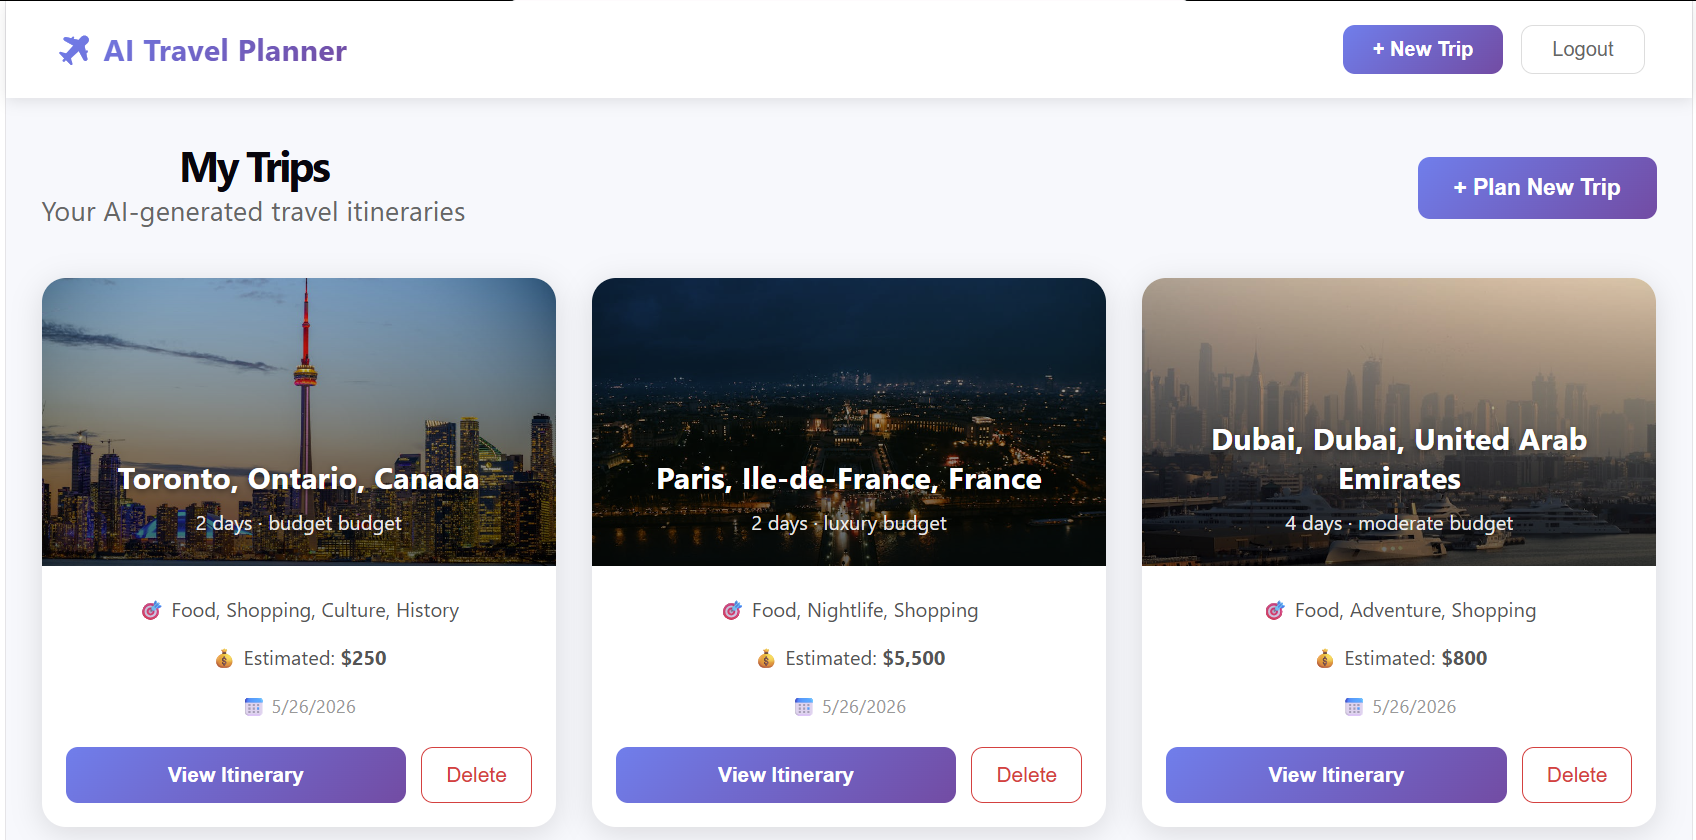
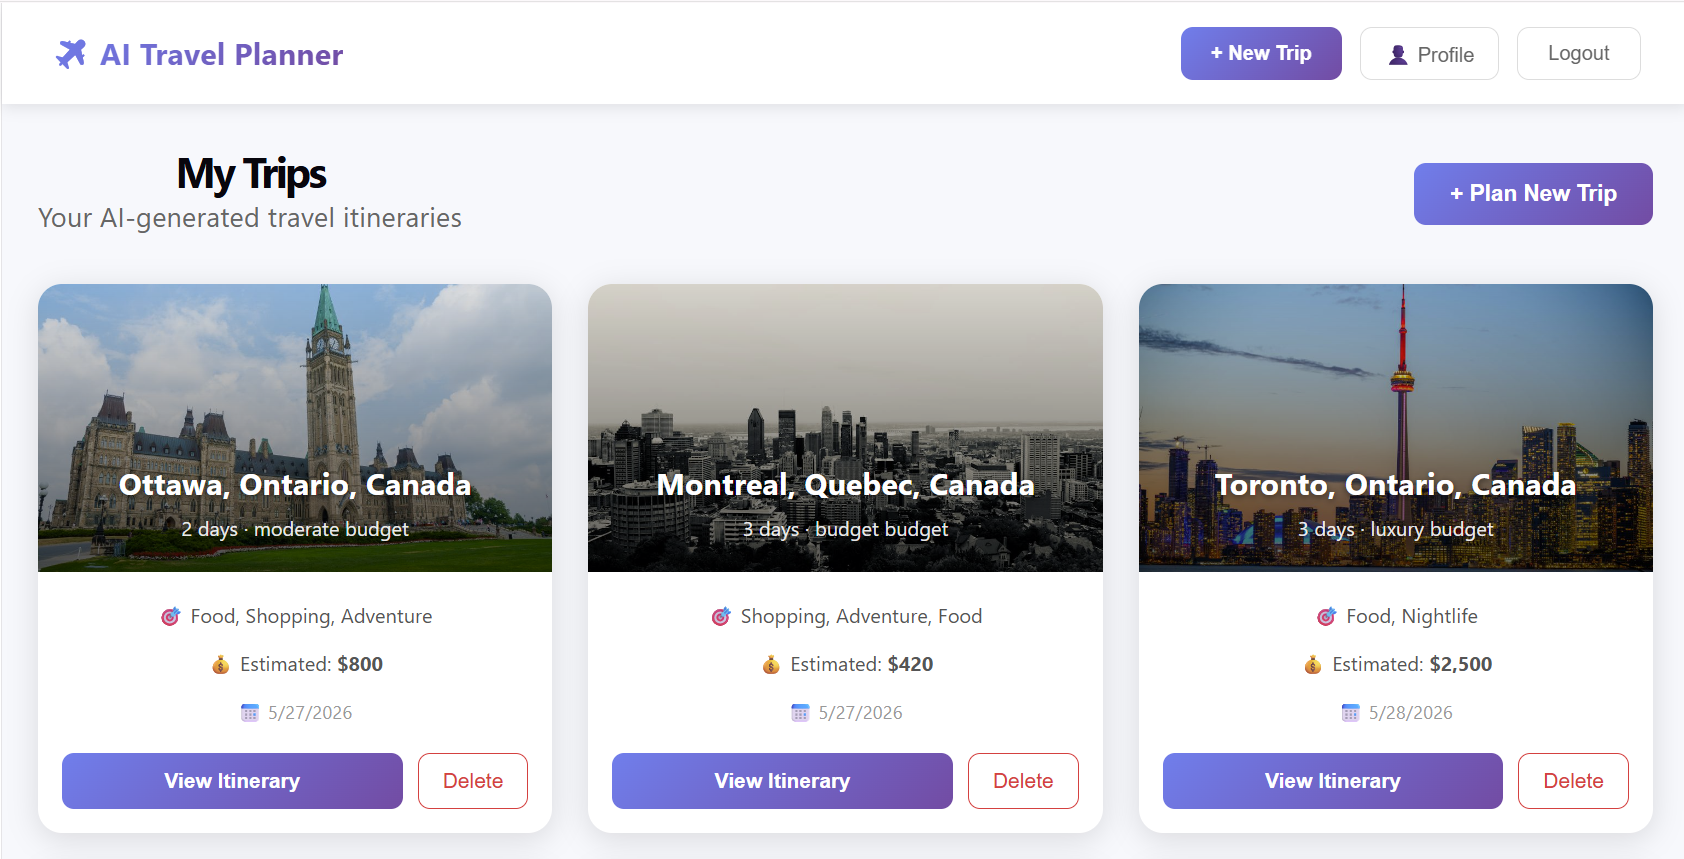
Update README

diff --git a/README.md b/README.md
@@ -15,7 +15,9 @@ Backend API: https://ai-travel-planner-4wuo.onrender.com
 | Dashboard | Trip Itinerary | Packing List |
 |-----------|---------------|--------------|
 | ![Dashboard](screenshots/dashboard.png) | ![Itinerary](screenshots/itinerary.png) | ![Packing](screenshots/packing.png) |
-
+| Profile   | AI Trip Suggestion |
+|-----------|---------------|
+| ![Profile](screenshots/profile.png) | ![Suggestions](screenshots/aitrip.png) |
 ---
 
 ## ✨ Features